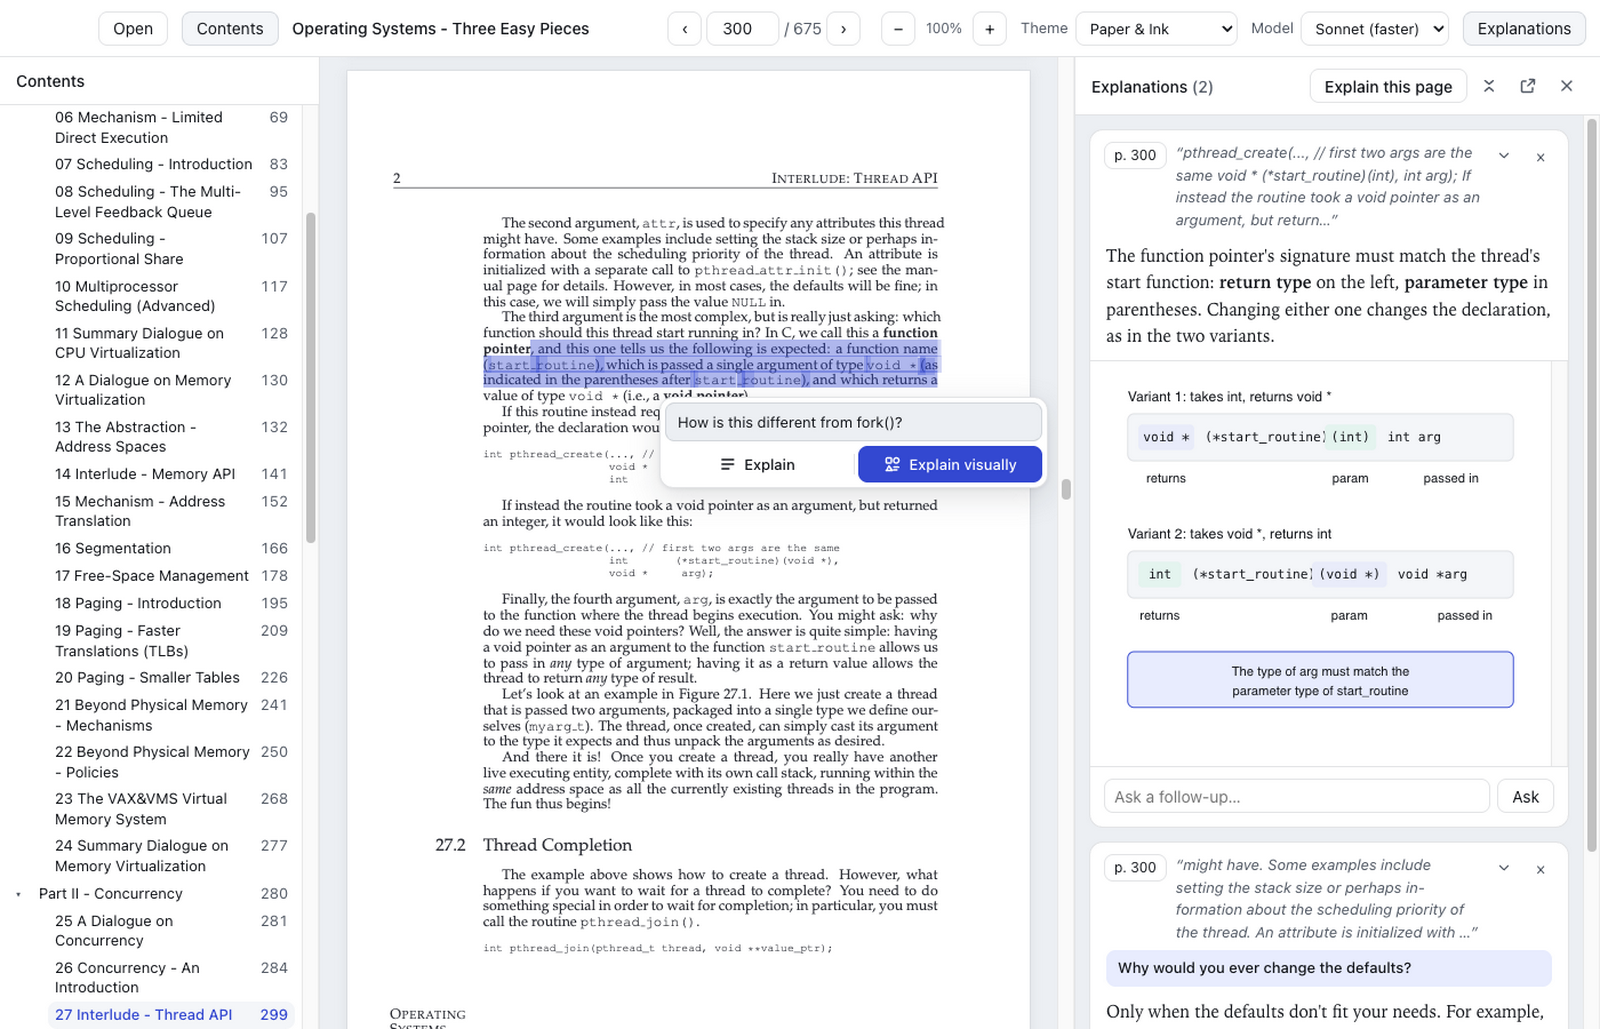
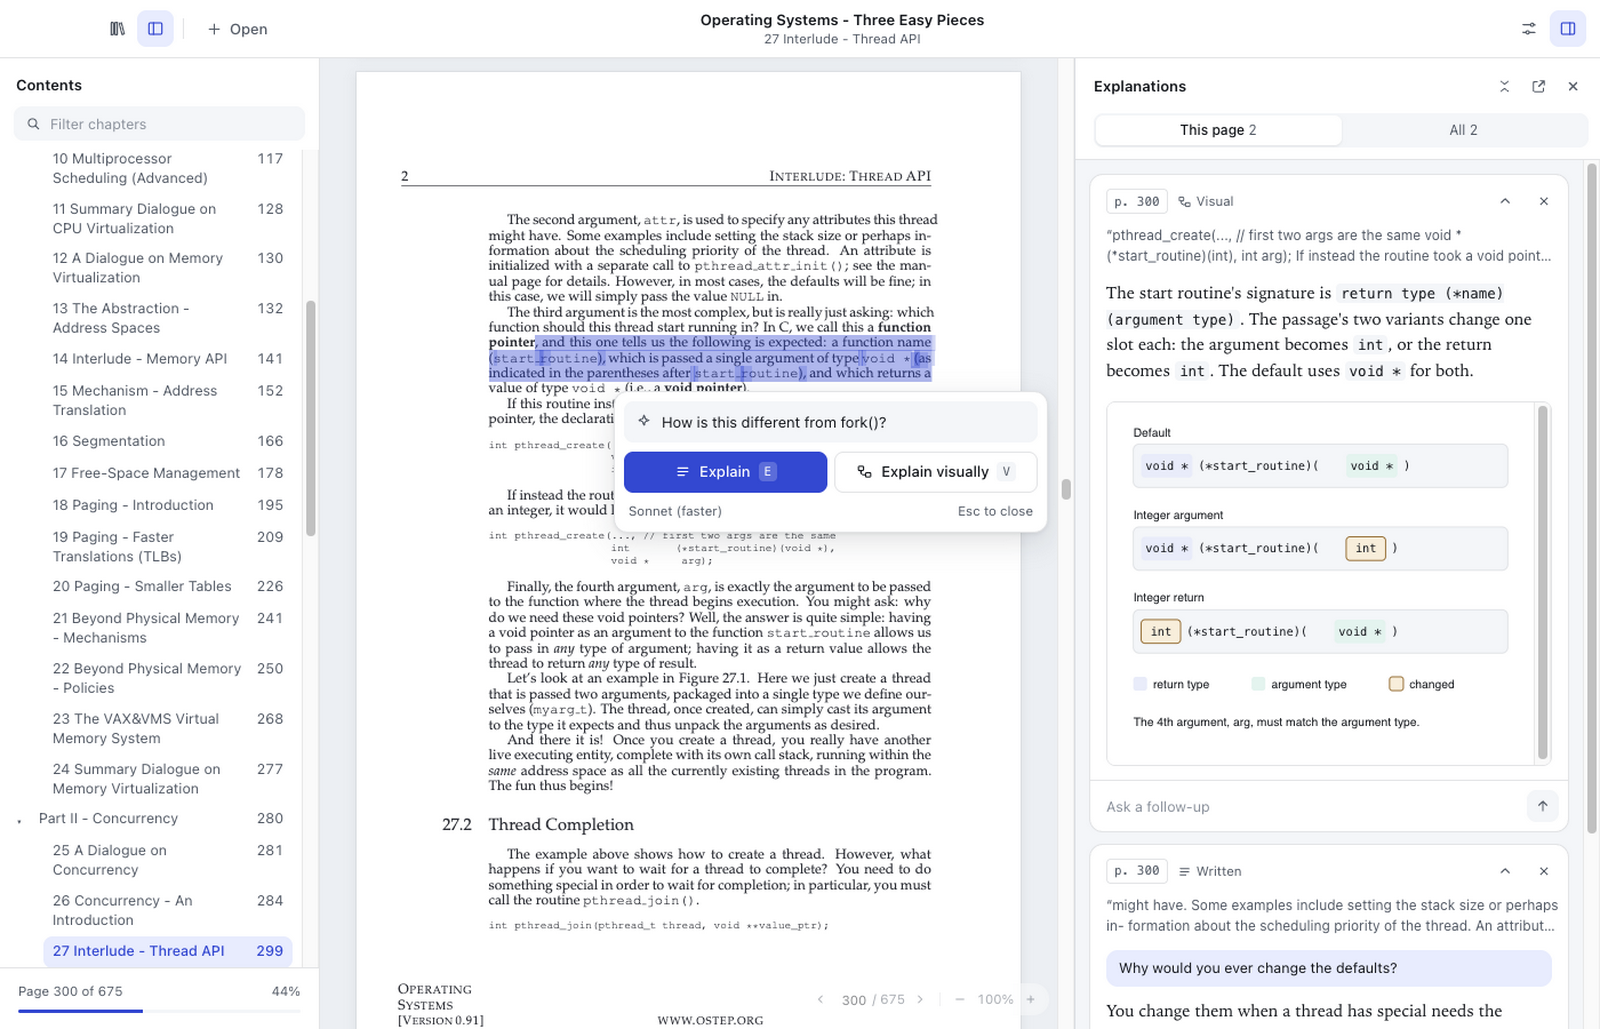
Refresh README screenshots and describe the redesigned interface
The four screenshots are retaken with the new toolbar, cards and page
bar. The README now covers the library, the page bar in the corner,
filtering the contents, This page / All, and the settings menu where
the theme and model moved.

diff --git a/README.md b/README.md
@@ -37,15 +37,16 @@ Open the DMG and drag the app to Applications. It shares its library with `npm s
 
 ## Use
 
-- **Open a book:** click Open (⌘O), drop a PDF or EPUB on the window, or use File → Open recent.
-- **Read:** scroll through the book continuously, or jump a page with ‹ › or the ← → keys. Use − + to zoom. The app remembers your page in each book.
+- **Open a book:** click Open (⌘O), drop a PDF or EPUB on the window, or pick one in the library. The library is the home screen: the book you were last reading, with how far you are, and the others you've opened. The books icon at the top left goes back to it. File → Open recent works too.
+- **Read:** scroll through the book continuously, or use the ← → keys. The small bar in the bottom-right corner of the page shows where you are: click the number to jump to a page, ‹ › to turn one, − + to zoom. It stays faint until you point at it. The app remembers your page in each book.
+- **Contents:** the sidebar lists the book's chapters, with the one you're in highlighted, a box to filter them, and how far through the book you are.
 - **EPUBs** show in the reader's theme and reflow to fit the window; − + changes the type size. The book's own styles are dropped. The page box counts the book's sections (usually chapters) instead of pages, and the app remembers how far through a section you were.
 - **Explain a passage:** select text, then click **Explain** (`E`) for a few sentences, or **Explain visually** (`V`) for a drawing.
 - **Follow up:** type a question under any explainer. Follow-ups continue the same conversation and keep its style, so Claude remembers the passage.
 - **No contents in the PDF?** Click **Generate with AI** in the Contents sidebar. It reads the book's headings and any printed contents page, and the result is saved with the book. **Regenerate** and **Remove** sit at the top of the list.
-- **Move the explanations:** the button at the top of the panel opens it in its own window (closing that window, or the same button, puts it back). × hides it; the **Explanations** button in the toolbar brings it back.
-- **Pick a theme** in the toolbar: Paper & Ink, Graphite & Violet and Forest Study follow your system's light or dark mode; Night Library is always dark and dims the page. Drawings follow the theme. Themes live in `shared/themes.ts`.
-- **Pick a model** in the toolbar: Haiku is fastest, Sonnet is faster, Opus gives the best results, or try Fable 5.2.
+- **Move the explanations:** the button at the top of the panel opens it in its own window (closing that window, or the same button, puts it back). × hides it; the panel button at the top right brings it back. **This page** shows only the explanations for the page you're reading; **All** shows the whole book's.
+- **Pick a theme** in the settings menu (the sliders at the top right): Paper & Ink, Graphite & Violet and Forest Study follow your system's light or dark mode; Night Library is always dark and dims the page. Drawings follow the theme. Themes live in `shared/themes.ts`.
+- **Pick a model** in the same menu: Haiku is fastest, Sonnet is faster, Opus gives the best results, or try Fable 5.2.
 - Explainers are saved per book. Click a card's page badge (`p. 12`, or `§ 3` in an EPUB) to jump back to it; in an EPUB it scrolls to the passage itself.
 
 ## How it works
